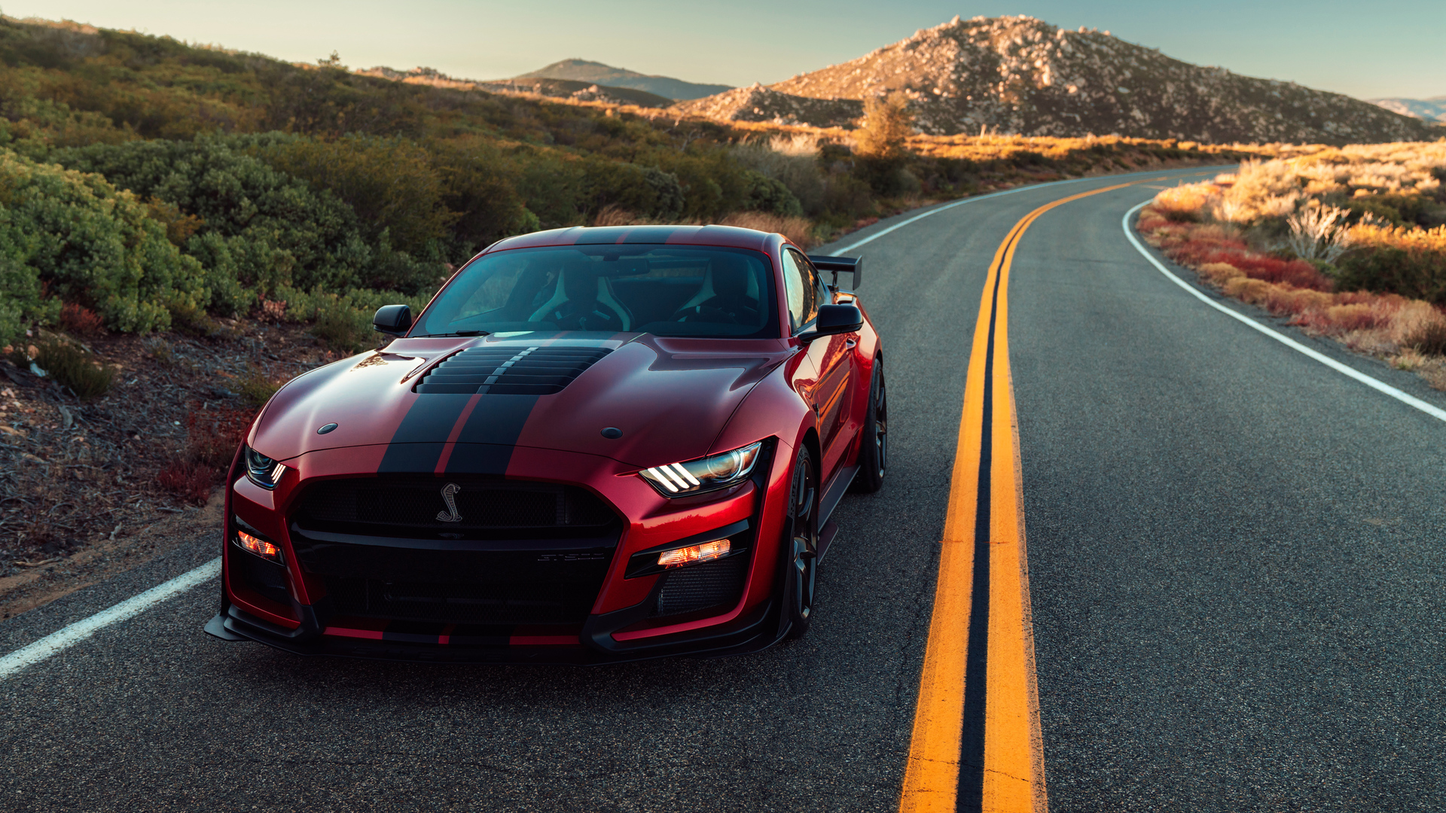
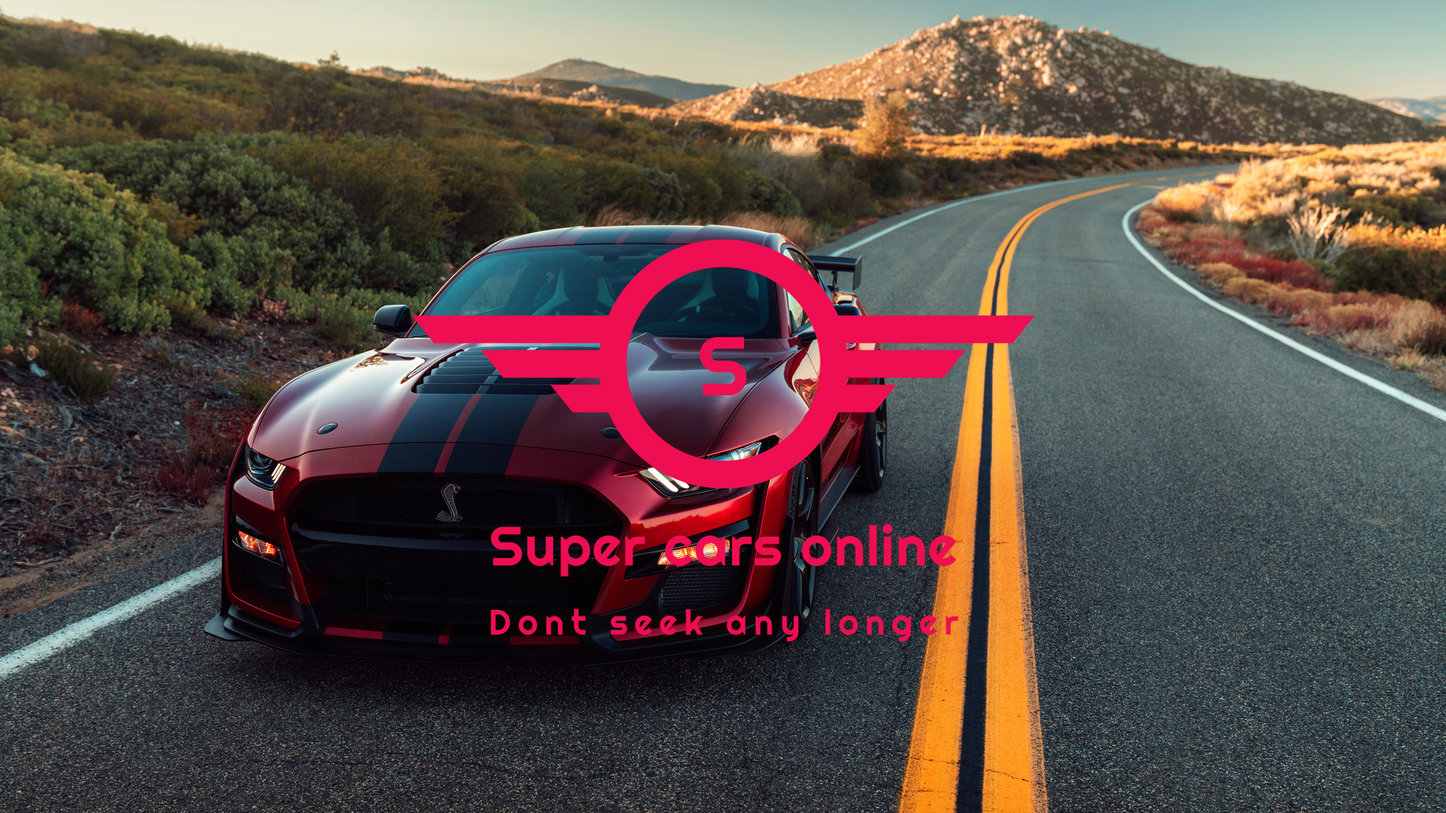
added images

diff --git a/assets/style/style.css b/assets/style/style.css
@@ -3,20 +3,6 @@
   margin: 0px;
 }
 
-nav.navbar{
-  -webkit-transition: all 0.4s ease;
-  transition: all 0.4s ease;
-}
-
-.navbar-inverse {
-   background-color: red;
-   border-color: #080808;
-}
-
-nav.navbar.transparent {
- background-color:rgba(0,0,0,0);
-}
-
 .navbar{
     overflow: hidden;
     background-color: red;
@@ -46,7 +32,7 @@ nav.navbar.transparent {
 }
 
 .logo{
-  align-items:right;
+  align-items: ;
 }
 
 .navbar a:hover {
@@ -166,7 +152,11 @@ nav.navbar.transparent {
   left: 200px;
 }
 
-@media only screen and (max-device-width: 1024px) {}
+@media only screen and (max-device-width: 1024px) {
 .parallax {
  background-attachment: scroll;
 }
+
+.imgBrand{
+  width: 33.10%;
+  height: auto;
